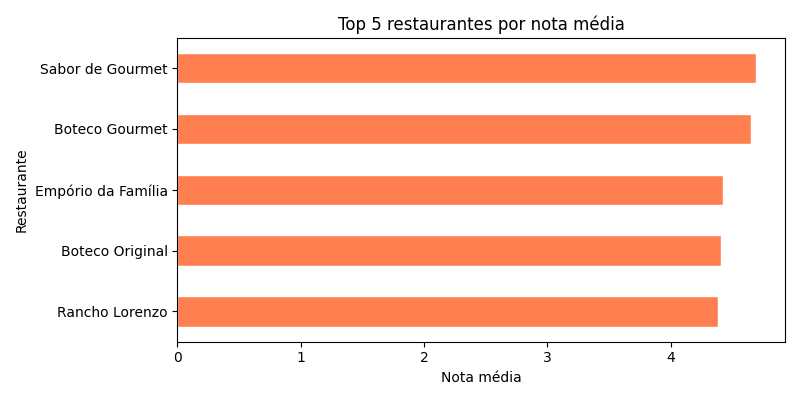
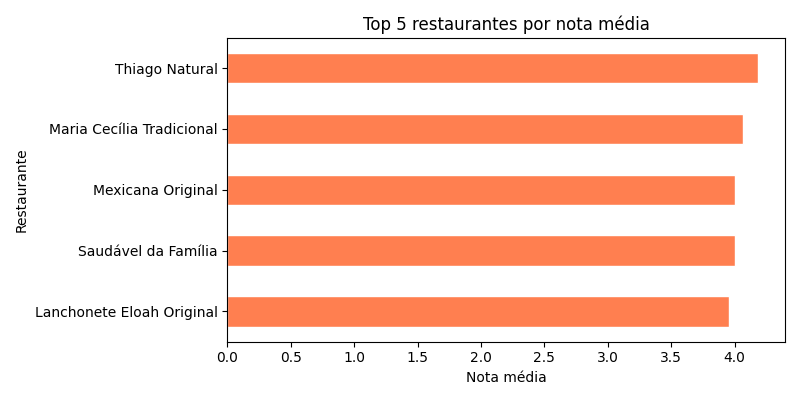
fix(analise): lowercase chart title and regenerate graphics

diff --git a/backend/app/analise.py b/backend/app/analise.py
@@ -148,7 +148,7 @@ percentual_atraso_por_clima.plot(
     edgecolor="white"
 )
 
-ax.set_title("% de Pedidos atrasados por clima")
+ax.set_title("% de pedidos atrasados por clima")
 ax.set_xlabel("Clima")
 ax.set_ylabel("% Atrasados")
 ax.set_xticklabels(ax.get_xticklabels(), rotation=0)
